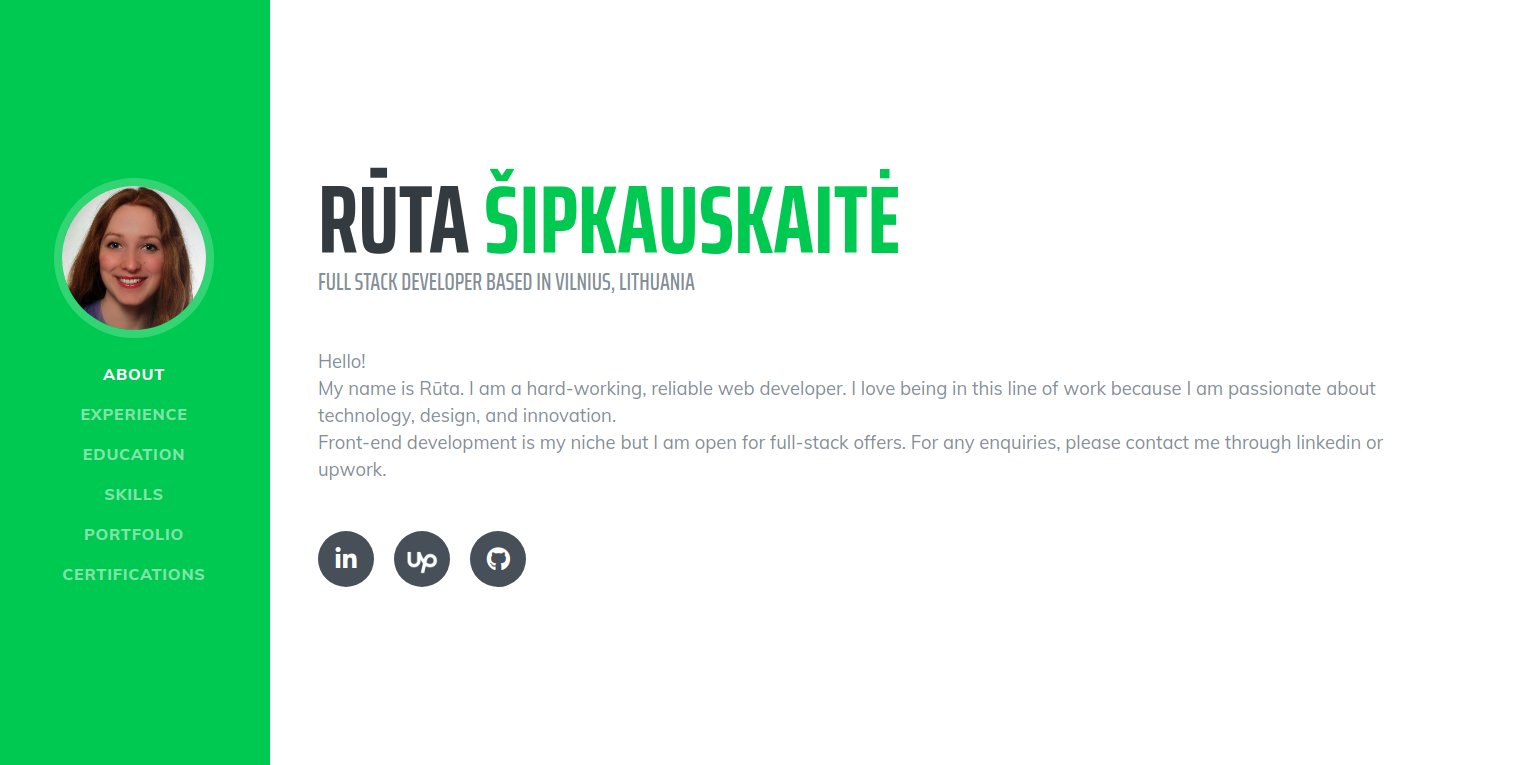
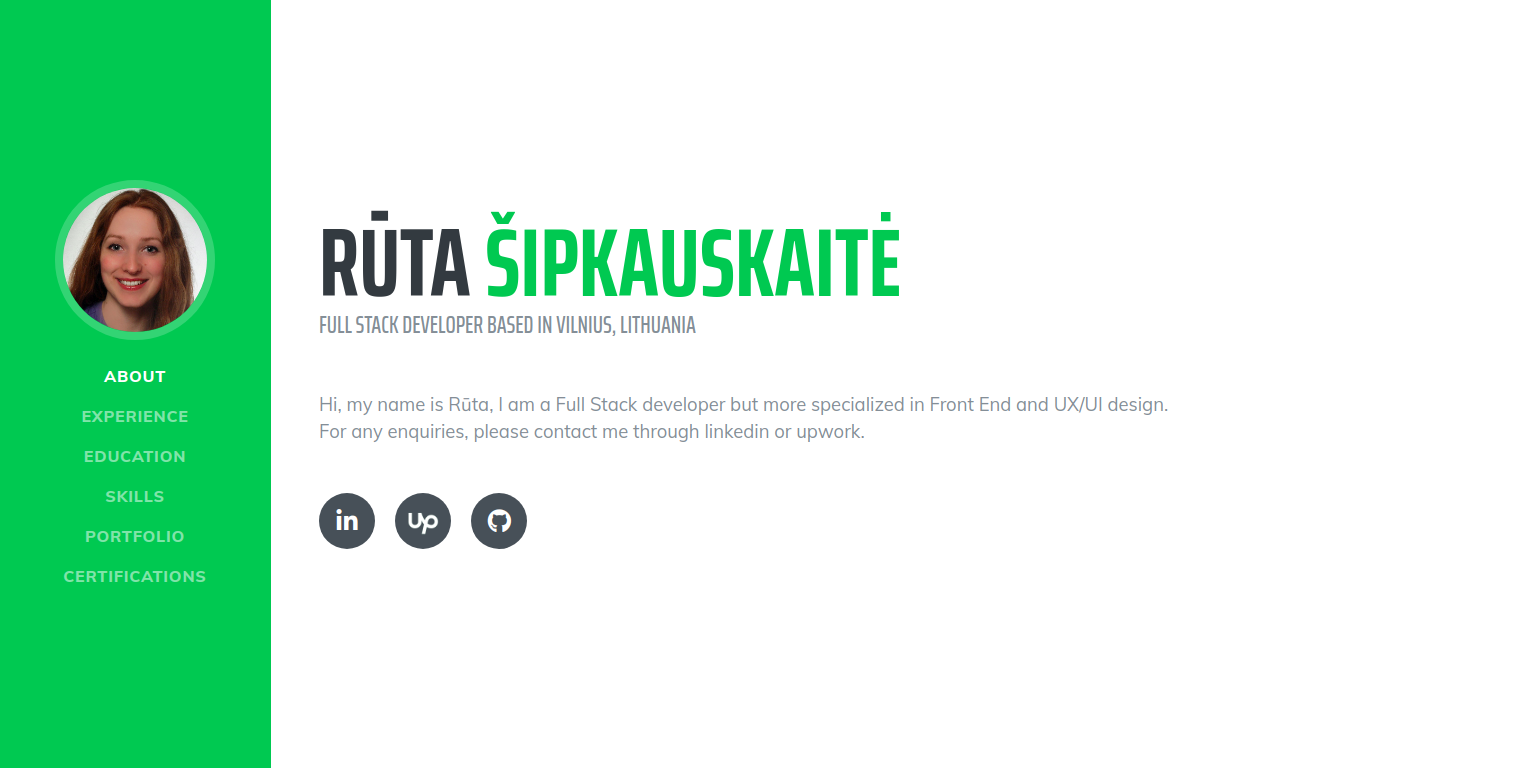
Added new project

diff --git a/index.html b/index.html
@@ -101,13 +101,9 @@
             Full Stack Developer based in Vilnius, Lithuania
           </div>
           <p class="lead mb-5">
-            Hello! <br />
-            My name is Rūta. I am a hard-working, reliable web developer. I love
-            being in this line of work because I am passionate about technology,
-            design, and innovation. <br />
-            Front-end development is my niche but I am open for full-stack
-            offers. For any enquiries, please contact me through linkedin or
-            upwork.
+            Hi, my name is Rūta, I am a Full Stack developer but more
+            specialized in Front End and UX/UI design. <br />
+            For any enquiries, please contact me through linkedin or upwork.
           </p>
           <div class="social-icons">
             <a
@@ -166,7 +162,7 @@
               <div class="subheading mb-3">Upwork</div>
               <p>
                 Mostly translations and recruiting but also some web development
-                work. 99% Job Succeess score, Top Rated status.
+                work. 99% Job Success score, Top Rated status.
               </p>
             </div>
             <div class="resume-date text-md-right">
@@ -328,11 +324,26 @@
                 <div class="card-body">
                   <h5 class="card-title">mybid.lt</h5>
                   <p class="card-text">
-                    With supporting text below as a natural lead-in to
-                    additional content.
+                    Auctions. Colab project with 3auris
+                    <a
+                      href="https://github.com/3auris"
+                      target="_blank"
+                      class="card-link"
+                      >(GitHub)</a
+                    >
+                    <br />
+                    Frontend: <b>React</b> <br />
+                    Backend: <b>Go</b>
                   </p>
-                  <a href="#" class="card-link">Open Github</a>
-                  <a href="#" class="card-link">View Demo</a>
+                  <a
+                    href="https://github.com/3auris/auction"
+                    target="_blank"
+                    class="card-link"
+                    >Open GitHub</a
+                  >
+                  <a href="http://mybid.lt/" target="_blank" class="card-link"
+                    >View Demo</a
+                  >
                 </div>
               </div>
             </div>
@@ -346,11 +357,56 @@
                 <div class="card-body">
                   <h5 class="card-title">rutasip.com</h5>
                   <p class="card-text">
-                    With supporting text below as a natural lead-in to
-                    additional content.
+                    Portfolio and resume. <br />
+                    Frontend: <b>SCSS, Boostrap, some jQuery</b> <br />
+                    Task runner: <b>Gulp</b> <br />
+                    Deployment: <b>GitHub pages</b>
                   </p>
-                  <a href="#" class="card-link">Open Github</a>
-                  <a href="#" class="card-link">View Demo</a>
+                  <a
+                    href="https://github.com/rutasip/resume-website"
+                    target="_blank"
+                    class="card-link"
+                    >Open GitHub</a
+                  >
+                  <a
+                    href="http://rutasip.com/"
+                    target="_blank"
+                    class="card-link"
+                    >View Demo</a
+                  >
+                </div>
+              </div>
+            </div>
+            <div class="col-md-6 mt-3 mt-md-4">
+              <div class="card">
+                <img
+                  class="card-img-top"
+                  src="./img/eventbooking.png"
+                  alt="Card image cap"
+                />
+                <div class="card-body">
+                  <h5 class="card-title">Event Booking API</h5>
+                  <p class="card-text">
+                    Users can register and login, as well as create, book,
+                    cancel events
+                    <br />
+                    Frontend: <b>React</b> <br />
+                    Backend: <b>GraphQL, Node.js, Express</b> <br />
+                    Database: <b>MongoDB</b> <br />
+                    Deployment: <b>Docker, Heroku</b>
+                  </p>
+                  <a
+                    href="https://github.com/rutasip/event-booking-api/"
+                    target="_blank"
+                    class="card-link"
+                    >Open GitHub</a
+                  >
+                  <a
+                    href="https://infinite-anchorage-46810.herokuapp.com/"
+                    target="_blank"
+                    class="card-link"
+                    >View Demo</a
+                  >
                 </div>
               </div>
             </div>
@@ -411,14 +467,5 @@
 
     <!-- Custom scripts for this template -->
     <script src="js/resume.min.js"></script>
-    <script type="text/javascript">
-      const scene = document.querySelectorAll(".scene");
-
-      for (i = 0; i < scene.length; i++) {
-        scene[i].addEventListener("click", function() {
-          this.classList.toggle("card-flip");
-        });
-      }
-    </script>
   </body>
 </html>
